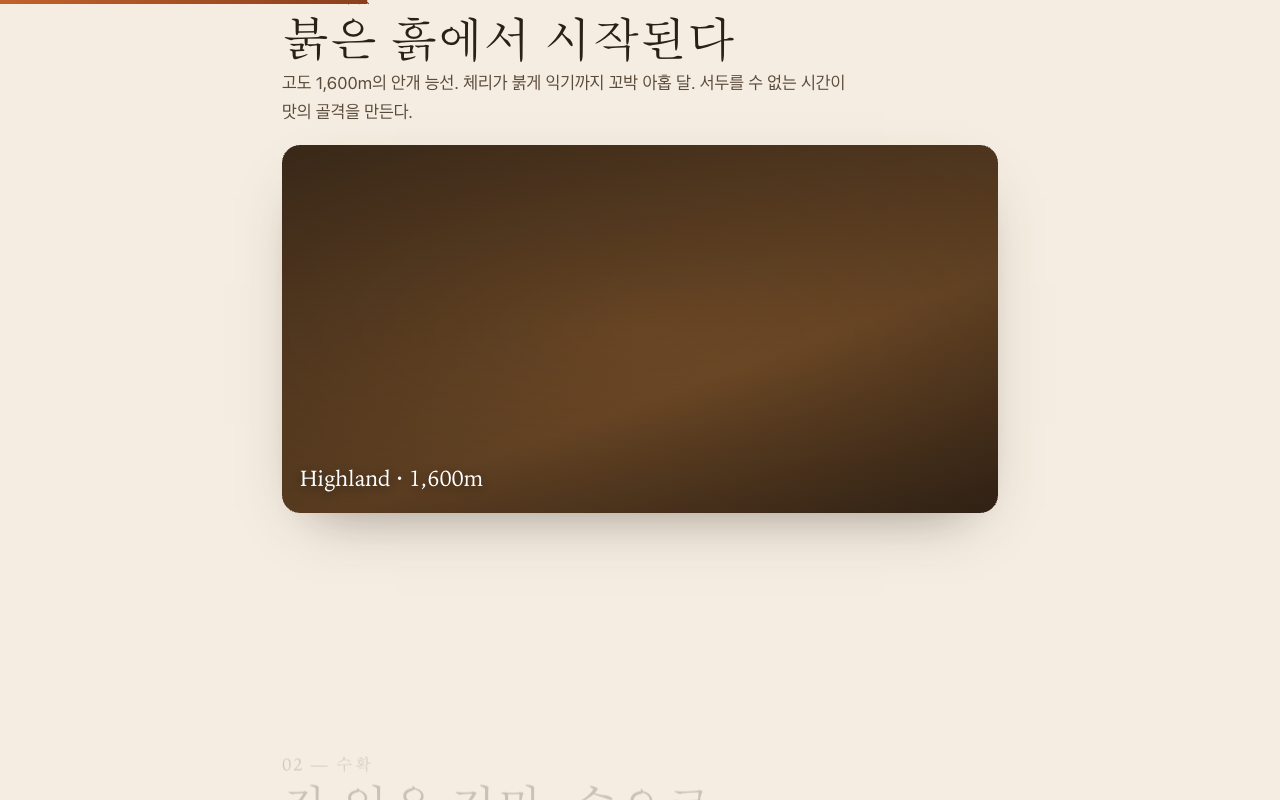
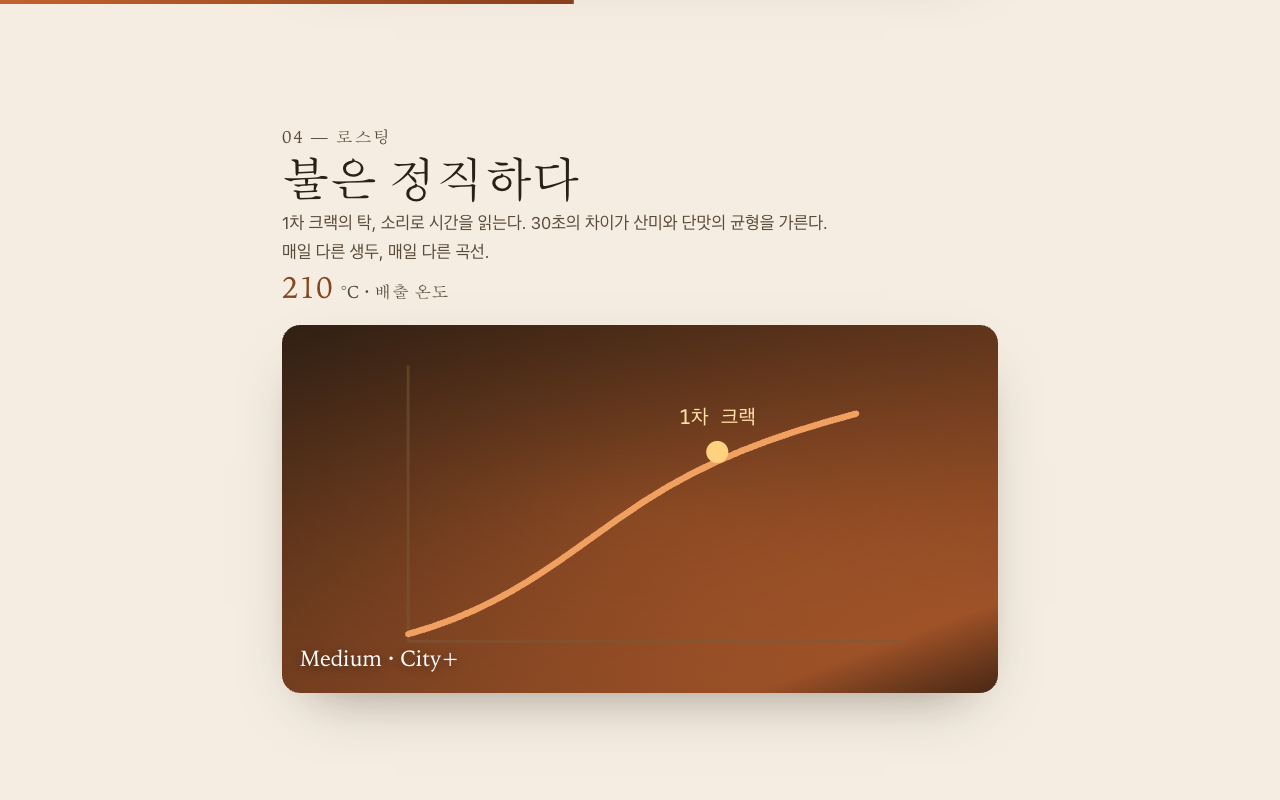
feat(drift): 가로 스크롤 테이스팅 노트 스트립 + 폴리시 + 썸네일(마감)
- sticky + view-timeline으로 가로 스크롤 카드 스트립(테이스팅 노트 6종, SVG 아이콘). 세로 스크롤 → translateX 스크럽, overflow:hidden + html overflow-x:clip로 가로 오버플로 0
- 미지원/reduced-motion: 네이티브 가로 스크롤(스와이프)로 정적 복귀
- 6단계+인터루드+스트립 명암 리듬 폴리시
- 썸네일 재캡처(로스팅 곡선·1차 크랙·210°C, 1280×800)
- 배치 1~2(일러스트·카운터·색전환·단어 리빌) 무손상. JS 0줄·이미지 0 유지

yarn demo:sync 폴더 복사. build/golden 그린, demos 격리.

diff --git a/demos/drift/index.html b/demos/drift/index.html
@@ -13,7 +13,7 @@
     --sans: -apple-system, BlinkMacSystemFont, 'Segoe UI', 'Apple SD Gothic Neo', 'Noto Sans KR', sans-serif;
   }
   * { box-sizing: border-box; margin: 0; padding: 0; }
-  html { scroll-behavior: smooth; }
+  html { scroll-behavior: smooth; overflow-x: clip; }
   body { font-family: var(--sans); background: var(--paper); color: var(--ink); line-height: 1.7; -webkit-font-smoothing: antialiased; }
 
   /* ── 미지원 브라우저 안내 배너 (scroll-timeline 미지원 시 표시) ── */
@@ -145,17 +145,41 @@
   }
   @keyframes wordin { from { opacity: .12; transform: translateY(8px); } to { opacity: 1; transform: none; } }
 
+  /* ── ⑤ 가로 스크롤 스트립: 테이스팅 노트 (sticky + translateX scrub, JS 0) ── */
+  /* 기본(미지원 폴백): 정적 가로 나열 — 네이티브 스크롤로 접근 가능 */
+  .hstrip { position: relative; }
+  .hstrip-sticky { padding: 26px 22px; overflow-x: auto; overflow-y: hidden; margin: 0 -22px; }
+  .hstrip-head { font-family: var(--serif); font-size: 13px; letter-spacing: .26em; text-transform: uppercase; color: var(--accent); margin-bottom: 16px; }
+  .hstrip-track { display: flex; gap: 16px; width: max-content; }
+  .note { flex: 0 0 200px; border-radius: 16px; padding: 22px; background: linear-gradient(160deg, #fff7ec, #eddcc4); border: 1px solid #e3cfb3; box-shadow: 0 16px 32px -24px rgba(42,32,24,.6); }
+  .note svg { width: 44px; height: 44px; display: block; margin-bottom: 16px; }
+  .note b { font-family: var(--serif); font-weight: 400; font-size: 22px; display: block; color: var(--ink); }
+  .note span { font-size: 11.5px; color: var(--muted); letter-spacing: .12em; text-transform: uppercase; }
+  /* 지원: 세로 스크롤 → 가로 트랙 translateX 스크럽 (핀 시퀀스) */
+  @supports (animation-timeline: view()) {
+    .hstrip { height: 300vh; timeline-scope: --hs; view-timeline: --hs block; }
+    .hstrip-sticky { position: sticky; top: 0; height: 100vh; display: flex; flex-direction: column; justify-content: center; align-items: flex-start;
+      overflow: hidden; width: 100vw; margin-left: calc(50% - 50vw); padding: 0 22px; }
+    .hstrip-track { animation: hscroll linear both; animation-timeline: --hs; animation-range: contain 0% contain 100%; }
+  }
+  /* 트랙 콘텐츠 폭 = 6×200 + 5×16 = 1280px. min(0px,…)로 넓은 화면 과스크롤 방지 */
+  @keyframes hscroll { from { transform: translateX(0); } to { transform: translateX(min(0px, calc(100vw - 1304px))); } }
+
   /* ── ★ prefers-reduced-motion: 모든 모션 정지(내용은 정적 노출) ── */
   @media (prefers-reduced-motion: reduce) {
     html { scroll-behavior: auto; }
     .hint, .progress, .scene .reveal, .art .layer, .fog,
     .ill-seed .grow, .ill-harvest .ripe, .ill-roast .crack, .ill-cup .pourart, .ill-cup .drop, .ill-cup .steam path,
     body, .m-alt, .m-dry, .m-temp, .m-brew,
-    .ill-dry .spread, .ill-grind .grindart, .ill-grind .ground, .interlude .w {
+    .ill-dry .spread, .ill-grind .grindart, .ill-grind .ground, .interlude .w, .hstrip-track {
       animation: none !important;
     }
     .ill-roast .curve { animation: none !important; stroke-dashoffset: 0; }
     .scene .reveal, .interlude .w { opacity: 1; transform: none; }
+    /* 가로 스트립 → 정적 가로 나열(스와이프)로 복귀 */
+    .hstrip { height: auto !important; }
+    .hstrip-sticky { position: static !important; height: auto !important; width: auto !important; margin: 0 -22px !important; overflow: visible !important; overflow-x: auto !important; padding: 26px 22px !important; }
+    .hstrip-track { transform: none !important; }
   }
 
   footer { background: var(--bg); color: #b8977a; text-align: center; padding: 80px 22px; font-size: 13px; }
@@ -284,6 +308,38 @@
           <ellipse cx="160" cy="200" rx="26" ry="6" fill="#5a3a1e" opacity=".55"/>
         </svg>
         <span class="cap">Burr · Medium-fine</span></div>
+    </section>
+
+    <section class="hstrip" aria-label="테이스팅 노트">
+      <div class="hstrip-sticky">
+        <p class="hstrip-head">테이스팅 노트 · Tasting Notes</p>
+        <div class="hstrip-track">
+          <article class="note">
+            <svg viewBox="0 0 44 44" aria-hidden="true"><circle cx="16" cy="27" r="8" fill="#a8324b"/><circle cx="28" cy="28" r="8" fill="#c0392b"/><circle cx="23" cy="16" r="7" fill="#8e2840"/><path d="M23 11 q7 -7 13 -4 q-3 7 -11 6 Z" fill="#6b8f3a"/></svg>
+            <b>베리</b><span>Berry</span>
+          </article>
+          <article class="note">
+            <svg viewBox="0 0 44 44" aria-hidden="true"><rect x="8" y="10" width="28" height="24" rx="3" fill="#5a3a1e"/><path d="M8 18 H36 M8 26 H36 M22 10 V34" stroke="#3a2412" stroke-width="2"/></svg>
+            <b>다크 초콜릿</b><span>Dark Chocolate</span>
+          </article>
+          <article class="note">
+            <svg viewBox="0 0 44 44" aria-hidden="true"><circle cx="22" cy="22" r="13" fill="#e8a33d"/><g stroke="#fff3df" stroke-width="1.6"><path d="M22 9 V35 M9 22 H35 M13 13 L31 31 M31 13 L13 31"/></g><circle cx="22" cy="22" r="3" fill="#fff3df"/></svg>
+            <b>시트러스</b><span>Citrus</span>
+          </article>
+          <article class="note">
+            <svg viewBox="0 0 44 44" aria-hidden="true"><path d="M14 13 h16 v11 q0 12 -8 16 q-8 -4 -8 -16 Z" fill="#b5793a"/><ellipse cx="22" cy="14" rx="8" ry="3.5" fill="#caa066"/></svg>
+            <b>캐러멜</b><span>Caramel</span>
+          </article>
+          <article class="note">
+            <svg viewBox="0 0 44 44" aria-hidden="true"><g fill="#c98aa8"><circle cx="22" cy="12" r="6"/><circle cx="32" cy="22" r="6"/><circle cx="22" cy="32" r="6"/><circle cx="12" cy="22" r="6"/></g><circle cx="22" cy="22" r="5" fill="#e8a33d"/></svg>
+            <b>꽃향</b><span>Floral</span>
+          </article>
+          <article class="note">
+            <svg viewBox="0 0 44 44" aria-hidden="true"><path d="M22 8 q12 4 12 16 q0 12 -12 14 q-12 -2 -12 -14 q0 -12 12 -16 Z" fill="#8a5a32"/><path d="M22 12 V34 M14 20 q8 4 16 0" stroke="#5e3c1f" stroke-width="2" fill="none"/></svg>
+            <b>견과</b><span>Nutty</span>
+          </article>
+        </div>
+      </div>
     </section>
 
     <section class="scene">

diff --git a/public/showcases/drift/index.html b/public/showcases/drift/index.html
@@ -13,7 +13,7 @@
     --sans: -apple-system, BlinkMacSystemFont, 'Segoe UI', 'Apple SD Gothic Neo', 'Noto Sans KR', sans-serif;
   }
   * { box-sizing: border-box; margin: 0; padding: 0; }
-  html { scroll-behavior: smooth; }
+  html { scroll-behavior: smooth; overflow-x: clip; }
   body { font-family: var(--sans); background: var(--paper); color: var(--ink); line-height: 1.7; -webkit-font-smoothing: antialiased; }
 
   /* ── 미지원 브라우저 안내 배너 (scroll-timeline 미지원 시 표시) ── */
@@ -145,17 +145,41 @@
   }
   @keyframes wordin { from { opacity: .12; transform: translateY(8px); } to { opacity: 1; transform: none; } }
 
+  /* ── ⑤ 가로 스크롤 스트립: 테이스팅 노트 (sticky + translateX scrub, JS 0) ── */
+  /* 기본(미지원 폴백): 정적 가로 나열 — 네이티브 스크롤로 접근 가능 */
+  .hstrip { position: relative; }
+  .hstrip-sticky { padding: 26px 22px; overflow-x: auto; overflow-y: hidden; margin: 0 -22px; }
+  .hstrip-head { font-family: var(--serif); font-size: 13px; letter-spacing: .26em; text-transform: uppercase; color: var(--accent); margin-bottom: 16px; }
+  .hstrip-track { display: flex; gap: 16px; width: max-content; }
+  .note { flex: 0 0 200px; border-radius: 16px; padding: 22px; background: linear-gradient(160deg, #fff7ec, #eddcc4); border: 1px solid #e3cfb3; box-shadow: 0 16px 32px -24px rgba(42,32,24,.6); }
+  .note svg { width: 44px; height: 44px; display: block; margin-bottom: 16px; }
+  .note b { font-family: var(--serif); font-weight: 400; font-size: 22px; display: block; color: var(--ink); }
+  .note span { font-size: 11.5px; color: var(--muted); letter-spacing: .12em; text-transform: uppercase; }
+  /* 지원: 세로 스크롤 → 가로 트랙 translateX 스크럽 (핀 시퀀스) */
+  @supports (animation-timeline: view()) {
+    .hstrip { height: 300vh; timeline-scope: --hs; view-timeline: --hs block; }
+    .hstrip-sticky { position: sticky; top: 0; height: 100vh; display: flex; flex-direction: column; justify-content: center; align-items: flex-start;
+      overflow: hidden; width: 100vw; margin-left: calc(50% - 50vw); padding: 0 22px; }
+    .hstrip-track { animation: hscroll linear both; animation-timeline: --hs; animation-range: contain 0% contain 100%; }
+  }
+  /* 트랙 콘텐츠 폭 = 6×200 + 5×16 = 1280px. min(0px,…)로 넓은 화면 과스크롤 방지 */
+  @keyframes hscroll { from { transform: translateX(0); } to { transform: translateX(min(0px, calc(100vw - 1304px))); } }
+
   /* ── ★ prefers-reduced-motion: 모든 모션 정지(내용은 정적 노출) ── */
   @media (prefers-reduced-motion: reduce) {
     html { scroll-behavior: auto; }
     .hint, .progress, .scene .reveal, .art .layer, .fog,
     .ill-seed .grow, .ill-harvest .ripe, .ill-roast .crack, .ill-cup .pourart, .ill-cup .drop, .ill-cup .steam path,
     body, .m-alt, .m-dry, .m-temp, .m-brew,
-    .ill-dry .spread, .ill-grind .grindart, .ill-grind .ground, .interlude .w {
+    .ill-dry .spread, .ill-grind .grindart, .ill-grind .ground, .interlude .w, .hstrip-track {
       animation: none !important;
     }
     .ill-roast .curve { animation: none !important; stroke-dashoffset: 0; }
     .scene .reveal, .interlude .w { opacity: 1; transform: none; }
+    /* 가로 스트립 → 정적 가로 나열(스와이프)로 복귀 */
+    .hstrip { height: auto !important; }
+    .hstrip-sticky { position: static !important; height: auto !important; width: auto !important; margin: 0 -22px !important; overflow: visible !important; overflow-x: auto !important; padding: 26px 22px !important; }
+    .hstrip-track { transform: none !important; }
   }
 
   footer { background: var(--bg); color: #b8977a; text-align: center; padding: 80px 22px; font-size: 13px; }
@@ -284,6 +308,38 @@
           <ellipse cx="160" cy="200" rx="26" ry="6" fill="#5a3a1e" opacity=".55"/>
         </svg>
         <span class="cap">Burr · Medium-fine</span></div>
+    </section>
+
+    <section class="hstrip" aria-label="테이스팅 노트">
+      <div class="hstrip-sticky">
+        <p class="hstrip-head">테이스팅 노트 · Tasting Notes</p>
+        <div class="hstrip-track">
+          <article class="note">
+            <svg viewBox="0 0 44 44" aria-hidden="true"><circle cx="16" cy="27" r="8" fill="#a8324b"/><circle cx="28" cy="28" r="8" fill="#c0392b"/><circle cx="23" cy="16" r="7" fill="#8e2840"/><path d="M23 11 q7 -7 13 -4 q-3 7 -11 6 Z" fill="#6b8f3a"/></svg>
+            <b>베리</b><span>Berry</span>
+          </article>
+          <article class="note">
+            <svg viewBox="0 0 44 44" aria-hidden="true"><rect x="8" y="10" width="28" height="24" rx="3" fill="#5a3a1e"/><path d="M8 18 H36 M8 26 H36 M22 10 V34" stroke="#3a2412" stroke-width="2"/></svg>
+            <b>다크 초콜릿</b><span>Dark Chocolate</span>
+          </article>
+          <article class="note">
+            <svg viewBox="0 0 44 44" aria-hidden="true"><circle cx="22" cy="22" r="13" fill="#e8a33d"/><g stroke="#fff3df" stroke-width="1.6"><path d="M22 9 V35 M9 22 H35 M13 13 L31 31 M31 13 L13 31"/></g><circle cx="22" cy="22" r="3" fill="#fff3df"/></svg>
+            <b>시트러스</b><span>Citrus</span>
+          </article>
+          <article class="note">
+            <svg viewBox="0 0 44 44" aria-hidden="true"><path d="M14 13 h16 v11 q0 12 -8 16 q-8 -4 -8 -16 Z" fill="#b5793a"/><ellipse cx="22" cy="14" rx="8" ry="3.5" fill="#caa066"/></svg>
+            <b>캐러멜</b><span>Caramel</span>
+          </article>
+          <article class="note">
+            <svg viewBox="0 0 44 44" aria-hidden="true"><g fill="#c98aa8"><circle cx="22" cy="12" r="6"/><circle cx="32" cy="22" r="6"/><circle cx="22" cy="32" r="6"/><circle cx="12" cy="22" r="6"/></g><circle cx="22" cy="22" r="5" fill="#e8a33d"/></svg>
+            <b>꽃향</b><span>Floral</span>
+          </article>
+          <article class="note">
+            <svg viewBox="0 0 44 44" aria-hidden="true"><path d="M22 8 q12 4 12 16 q0 12 -12 14 q-12 -2 -12 -14 q0 -12 12 -16 Z" fill="#8a5a32"/><path d="M22 12 V34 M14 20 q8 4 16 0" stroke="#5e3c1f" stroke-width="2" fill="none"/></svg>
+            <b>견과</b><span>Nutty</span>
+          </article>
+        </div>
+      </div>
     </section>
 
     <section class="scene">

diff --git a/demos/drift/README.md b/demos/drift/README.md
@@ -3,7 +3,7 @@
 가상 커피 브랜드의 스크롤 내러티브 한 페이지.
 
 ## 무엇을 보여주나
-스크롤만으로 진행되는 6단계 스토리텔링(씨앗→수확→발효·건조→로스팅→그라인딩→한 잔) — 상단 진행 바, 텍스트 떠오름(rise), 이미지 시차(parallax), **단계별 SVG 커피 일러스트**, **스크롤 스크럽 숫자 카운터**, **여정에 따라 흐르는 색**, **단어별 리빌 인터루드**. **전부 CSS/SVG, JavaScript 0줄·이미지 자산 0.**
+스크롤만으로 진행되는 6단계 스토리텔링(씨앗→수확→발효·건조→로스팅→그라인딩→한 잔) — 상단 진행 바, 텍스트 떠오름(rise), 이미지 시차(parallax), **단계별 SVG 커피 일러스트**, **스크롤 스크럽 숫자 카운터**, **여정에 따라 흐르는 색**, **단어별 리빌 인터루드**, **가로 스크롤 테이스팅 노트 스트립**. **전부 CSS/SVG, JavaScript 0줄·이미지 자산 0.**
 
 ## 핵심 기술
 - **CSS Scroll-driven Animations**: 진행 바 = `animation-timeline: scroll(root block)`, 섹션 reveal·시차·일러스트·카운터·단어 리빌 = `animation-timeline: view()` + `animation-range`.
@@ -11,6 +11,7 @@
 - **스크럽 카운터(`@property <integer>`, JS 0)**: `@property`로 등록한 정수 변수를 `view()`로 0→값 스크럽 + `counter-reset`/`content: counter()`로 렌더 — 해발고도 1600m·자연건조 18일·로스팅 210°C·추출 92°C.
 - **색상 전환(`@property <color>`, JS 0)**: `scroll(root block)`로 `--flow`(하이랜드 그린→로스팅 브라운→테라코타)를 스크럽, 섹션 번호·스펙 숫자 색이 여정 따라 흐름.
 - **단어별 리빌**: 인터루드 문장을 단어 `<span>`마다 다른 `animation-range`로 순차 등장(다크 밴드 = 명암 리듬).
+- **가로 스크롤 스트립(`sticky` + `view-timeline`, JS 0)**: 테이스팅 노트 카드(베리·다크초콜릿·시트러스·캐러멜·꽃향·견과, SVG 아이콘)가 세로 스크롤에 맞춰 가로로 흐름 — `sticky` 핀 + 트랙 `translateX`를 섹션 `view-timeline`으로 스크럽, `overflow: hidden`으로 페이지 가로 오버플로 0. 미지원/`reduced-motion` 시 네이티브 가로 스크롤(스와이프)로 정적 노출.
 - **`prefers-reduced-motion`**: 모든 모션(진행바·리빌·시차·일러스트·드립·스팀·안개·카운터·색 전환·단어·bob) 정지 — 카운터는 최종값, 색은 정적, 내용은 그대로 노출.
 - 스크립트 없음(진짜 0줄). 미지원 브라우저는 `@supports (animation-timeline)`로 감지해 안내 배너 표시 + 내용·일러스트는 정적으로 노출(로스팅 곡선은 그려진 상태, 카운터는 최종 숫자, 색은 고정).
 